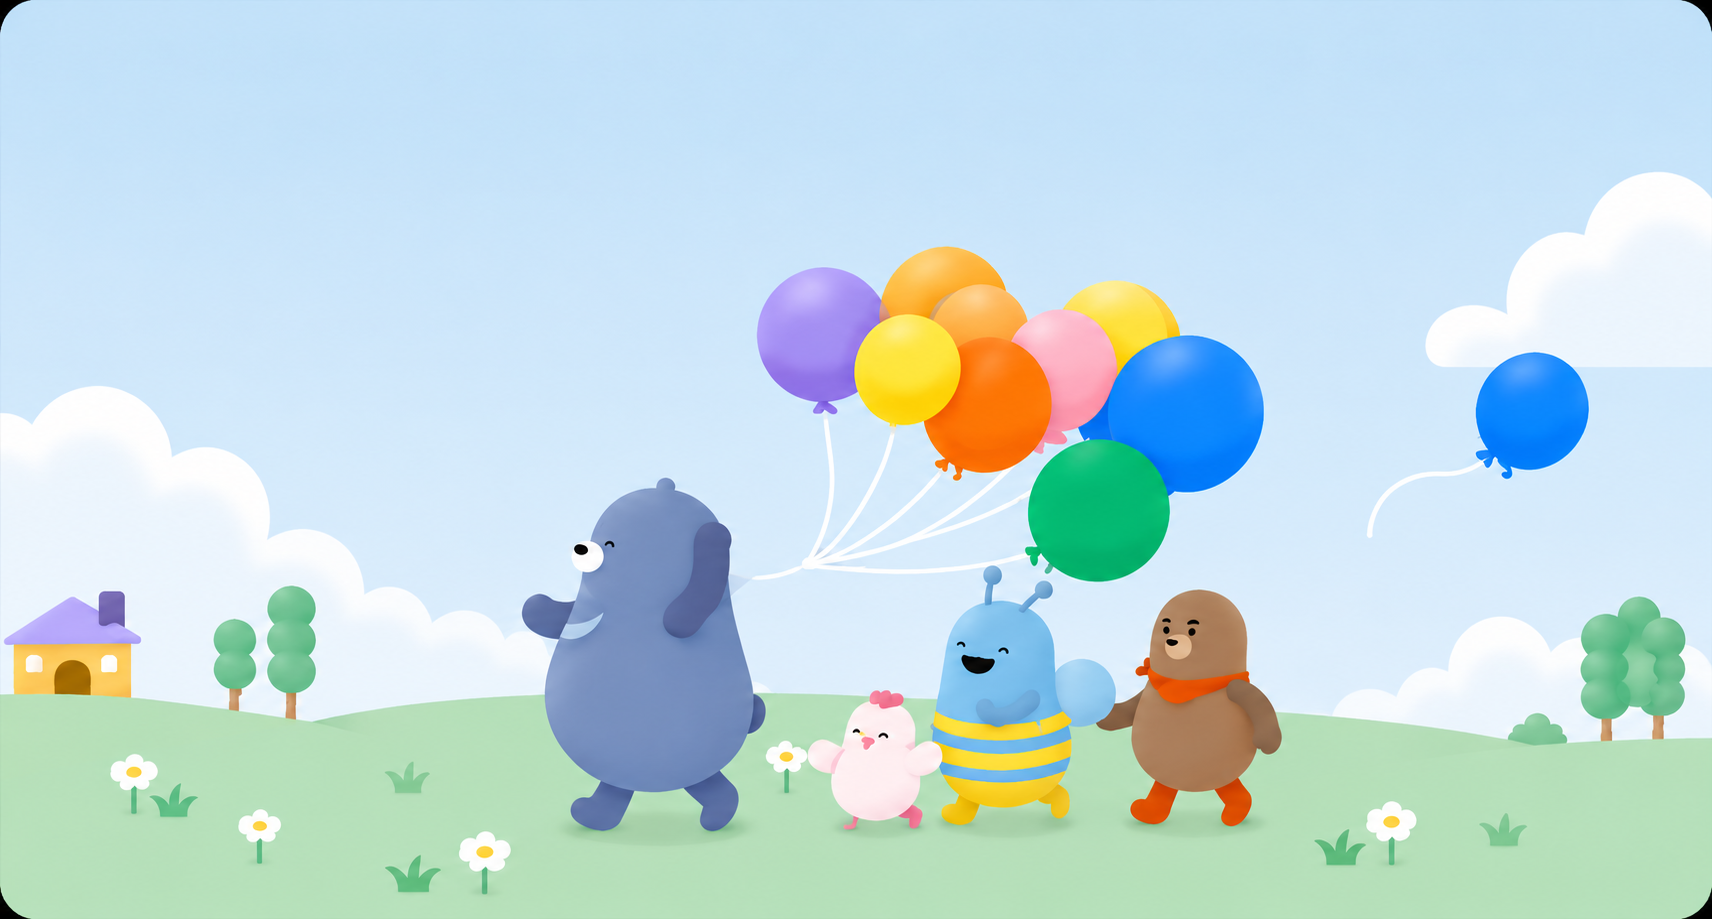
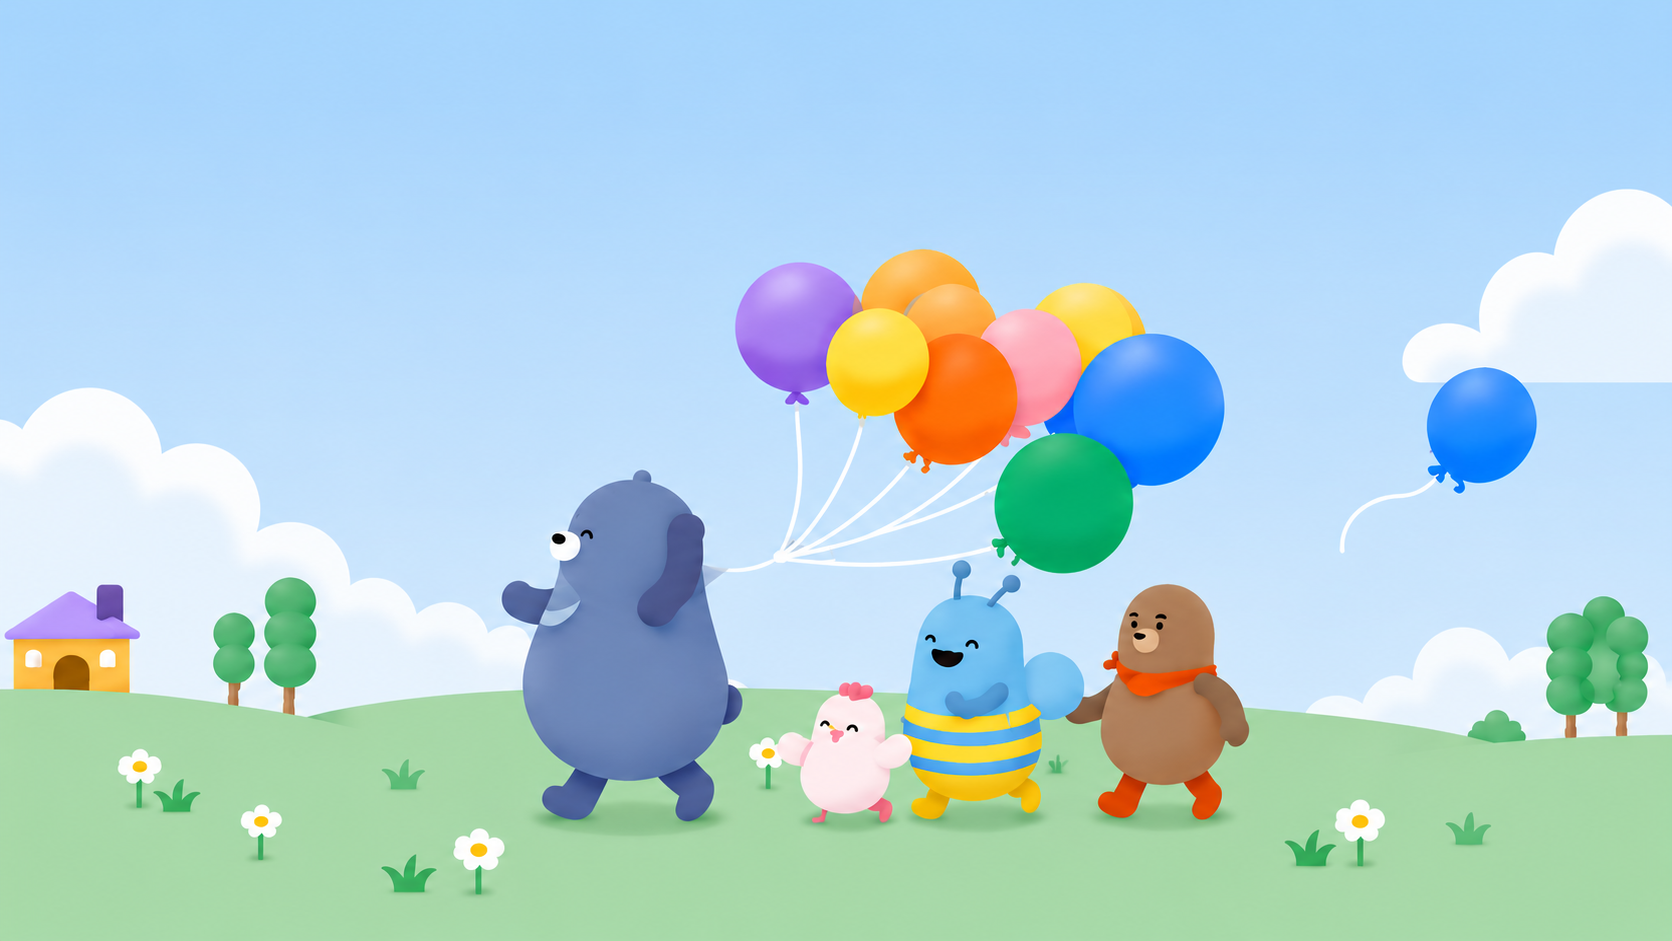
Update background with Asset folder's new 홈배경.png and deploy to docs/after

diff --git a/woori_app_ai/src/pages/Page00_Home.jsx b/woori_app_ai/src/pages/Page00_Home.jsx
@@ -1,6 +1,6 @@
 import { useState, useEffect } from 'react';
 import StatusBar from '../components/StatusBar';
-import homeBg from '../assets/home_bg.jpg';
+import homeBg from '../assets/home_bg.png';
 import botImg from '../assets/bot.png';
 import bellIcon from '../assets/bell.svg';
 import menuIcon from '../assets/menu.svg';